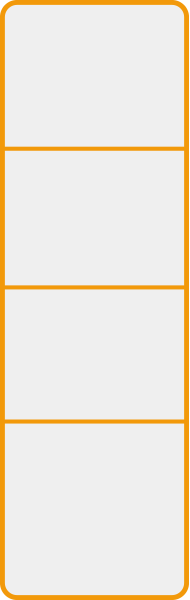
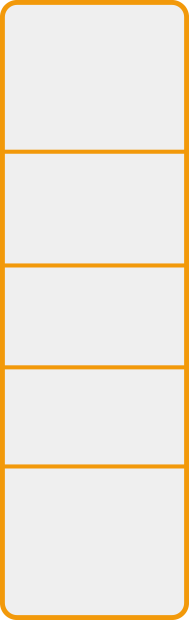
ajustes Yacimientos, textos e iconos

diff --git a/assets/css/galileo-yacimiento.css b/assets/css/galileo-yacimiento.css
@@ -138,7 +138,7 @@
 #hill-26{ bottom: 0; left: 15130px;}
 #hill-27{ bottom: 0; left: 15400px;}
 
-#txt-wrap-1{bottom: -305px; left: 225px;}
+#txt-wrap-1{bottom: -333px; left: 225px;}
 #txt-wrap-2{bottom: -175px; left: 6500px;}
 
 #h2-1{top: 40px; left: 610px;}
@@ -151,7 +151,7 @@
 #h2-8{top: 40px; left: 13190px;}
 #h2-9{top: 40px; left: 14580px;}
 
-#txt-0{ top: 625px; left: 260px; width: 150px;}
+#txt-0{ top: 651px; left: 196px; width: 270px;}
 #txt-1{ top: 215px; left: 660px; width: 400px;}
 #txt-2{ top: 192px; left: 1701px; width: 440px;}
 #txt-3{ top: 192px; left: 1880px; width: 450px;}
@@ -183,7 +183,7 @@
 #h3-6{ top: -84px; left: 2260px;}
 #h3-7{ top: 150px; left: 2800px;}
 #h3-8{ top: 150px; left: 5200px;}
-#h3-9{margin-top: -18px; text-align: center; width: 100%;}
+#h3-9{margin-top: -27px; text-align: center; width: 100%;}
 #h3-10{ top: 145px; left: 7647px;}
 #h3-11{ top: -200px; left: 9150px;}
 #h3-12{ top: -200px; left: 9800px;}
@@ -311,7 +311,7 @@ a#continue-gasoducto-process{top: 100px; left: 15853px}
 }
 .txtWrap1{
   width: 190px;
-  height: 600px;
+  height: 620px;
   z-index: 14;
   position: absolute;
   background: transparent url(../images/cajon-txt-yac-1.png) no-repeat;
@@ -331,7 +331,7 @@ a#continue-gasoducto-process{top: 100px; left: 15853px}
   font-weight: bold;
   color: #1a5489;
   text-align: center;
-
+  line-height: 20px;
 }
 .title-green{
   position: absolute;
@@ -358,19 +358,32 @@ a#continue-gasoducto-process{top: 100px; left: 15853px}
   left: 835px;
   z-index: 11;
 }
-.icon1, .icon2, .icon3, .icon4{
+.icon0, .icon1, .icon2, .icon3, .icon4{
   width: 100%;
   margin: 0.5em auto;
-
+}
+#icon-2{
+  margin-top: -22px;
+}
+#icon-3{
+  margin-top: -64px;
+}
+#icon-4{
+  margin-top: -105px;
+}
+.icon0{
+ max-width: 48px;
+ height: 77px;
+ background: transparent url(../images/orphan-well.png) no-repeat;  
 }
 .icon1{
- max-width: 111px;
- height: 85px;
+ max-width: 83px;
+ height: 64px;
  background: transparent url(../images/wellhead-icon.png) no-repeat;
 }
 .icon2{
- max-width: 116px;
- height: 71px;
+ max-width: 87px;
+ height: 53px;
  background: transparent url(../images/gathering-icon.png) no-repeat;
 }
 .icon3{
@@ -379,8 +392,8 @@ a#continue-gasoducto-process{top: 100px; left: 15853px}
  background: transparent url(../images/pipeline.png) no-repeat;
 }
 .icon4{
- max-width: 116px;
- height: 89px;
+ max-width: 79px;
+ height: 63px;
  background: transparent url(../images/flaring-icon.png) no-repeat;
 }
 .figure1{

diff --git a/sections/yacimientogas.php b/sections/yacimientogas.php
@@ -19,24 +19,28 @@
                  <!--elementos landscape top 1 --> 
                     <div class="group-animated animatedParent" data-appear-left-offset='-700'  data-sequence='200'>
                          <div id="txt-wrap-1" class="txtWrap1 animated fadeInLeftShort" data-id="1">
-                             <div class="txt-wrap-cntr">
-                                 <div id="icon-1" class="icon1 animated fadeInLeftShort" data-id="2"></div> 
-                                 <p class="txt-box1 animated fadeInLeftShort" data-id="3"><?php  echo $texts->yacimiento->process->pozo_box_op1; ?></p>   
+                            <div class="txt-wrap-cntr">
+                                 <div id="icon-0" class="icon0 animated fadeInLeftShort" data-id="2"></div> 
+                                 <p class="txt-box1 animated fadeInLeftShort" data-id="3">Pozos no <br />conectados</p>   
                              </div>
                              <div class="txt-wrap-cntr">
-                                 <div id="icon-2" class="icon2 animated fadeInLeftShort" data-id="4"></div> 
-                                 <p class="txt-box1 animated fadeInLeftShort" data-id="5"><?php  echo $texts->yacimiento->process->pozo_box_op2; ?></p>   
+                                 <div id="icon-1" class="icon1 animated fadeInLeftShort" data-id="4"></div> 
+                                 <p class="txt-box1 animated fadeInLeftShort" data-id="5"><?php  echo $texts->yacimiento->process->pozo_box_op1; ?></p>   
                              </div>
                              <div class="txt-wrap-cntr">
-                                 <div id="icon-2" class="icon3 animated fadeInLeftShort" data-id="6"></div> 
-                                 <p class="txt-box1 animated fadeInLeftShort" data-id="7"><?php  echo $texts->yacimiento->process->pozo_box_op3; ?></p>   
+                                 <div id="icon-2" class="icon2 animated fadeInLeftShort" data-id="6"></div> 
+                                 <p class="txt-box1 animated fadeInLeftShort" data-id="7"><?php  echo $texts->yacimiento->process->pozo_box_op2; ?></p>   
                              </div>
                              <div class="txt-wrap-cntr">
-                                 <div id="icon-4" class="icon4 animated fadeInLeftShort" data-id="8"></div> 
-                                 <p class="txt-box1 animated fadeInLeftShort" data-id="9"><?php  echo $texts->yacimiento->process->pozo_box_op4; ?></p>
+                                 <div id="icon-3" class="icon2 animated fadeInLeftShort" data-id="8"></div> 
+                                 <p class="txt-box1 animated fadeInLeftShort" data-id="9"><?php  echo $texts->yacimiento->process->pozo_box_op3; ?></p>   
+                             </div>
+                             <div class="txt-wrap-cntr">
+                                 <div id="icon-4" class="icon4 animated fadeInLeftShort" data-id="10"></div> 
+                                 <p class="txt-box1 animated fadeInLeftShort" data-id="11">Reducción del Flaring / Pozos de testing</p>
                              </div>   
                          </div>
-                         <p id="txt-0" class="txtInfo animated fadeInLeftShort" data-id="10"><?php  echo $texts->yacimiento->process->pozo_box_title; ?></p>
+                         <p id="txt-0" class="txtInfo animated fadeInLeftShort" data-id="12"><?php  echo $texts->yacimiento->process->pozo_box_title; ?></p>
                      </div> 
                      
                      <div class="group-animated animatedParent" data-appear-left-offset='-700'  data-sequence='300'>

diff --git a/config/config.php b/config/config.php
@@ -1,5 +1,5 @@
 <?php
 
-	$language_url = "http://localhost/php-apps/gnl/language/";
+	$language_url = "http://localhost/gnl/language/";
 
 ?>
